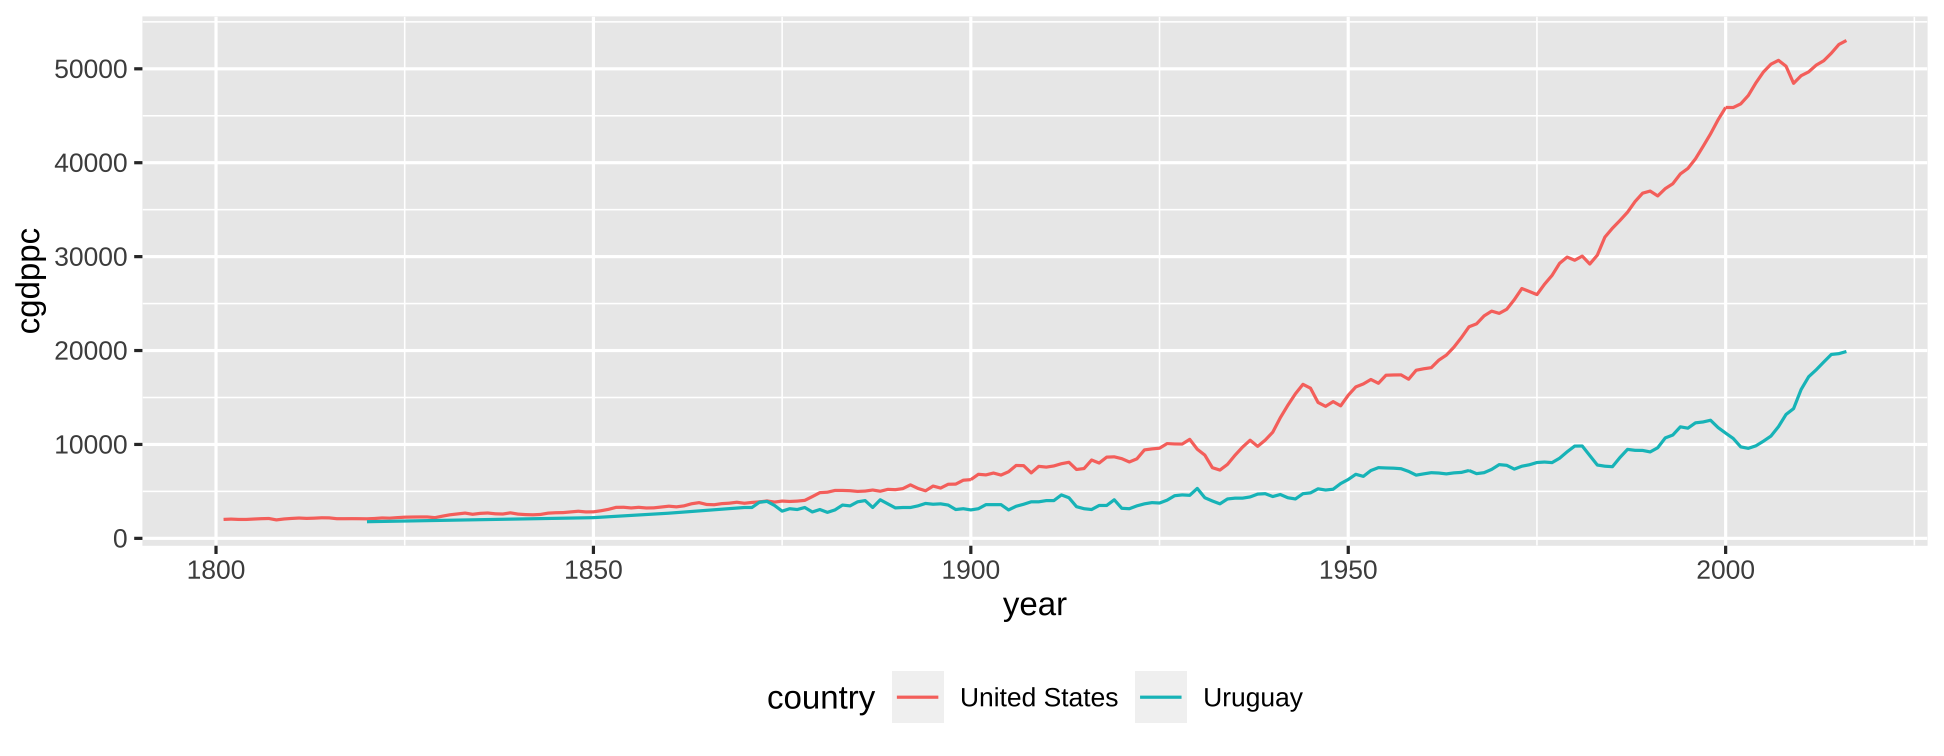
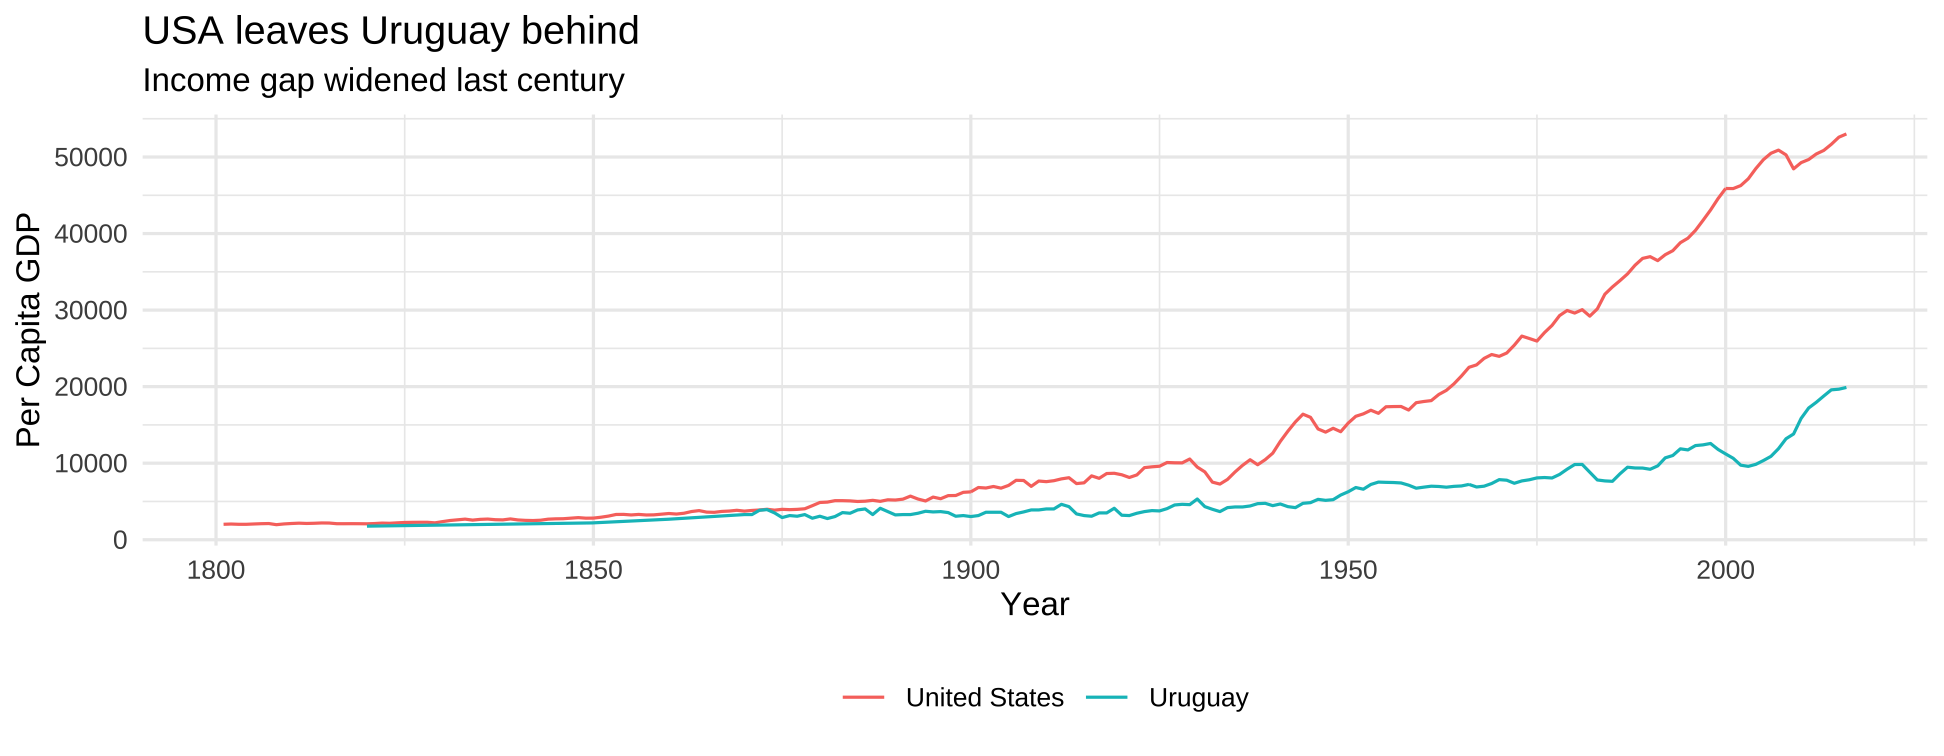
Polish last plot

diff --git a/index.html b/index.html
@@ -324,7 +324,13 @@ df_uy_usa &lt;- df %&gt;%
 plt &lt;- df_uy_usa %&gt;% 
   filter(year&gt;1800) %&gt;% 
   ggplot(aes(year, cgdppc)) + 
-  geom_line(aes(group=country, color=country)) + 
+  geom_line(aes(group=country, color=country)) +
+  scale_color_discrete("") +
+  labs(title="USA leaves Uruguay behind",
+       subtitle="Income gap widened last century",
+       x="Year",
+       y="Per Capita GDP") +
+  theme_minimal() +
   theme(legend.position = "bottom")
 ```
 
